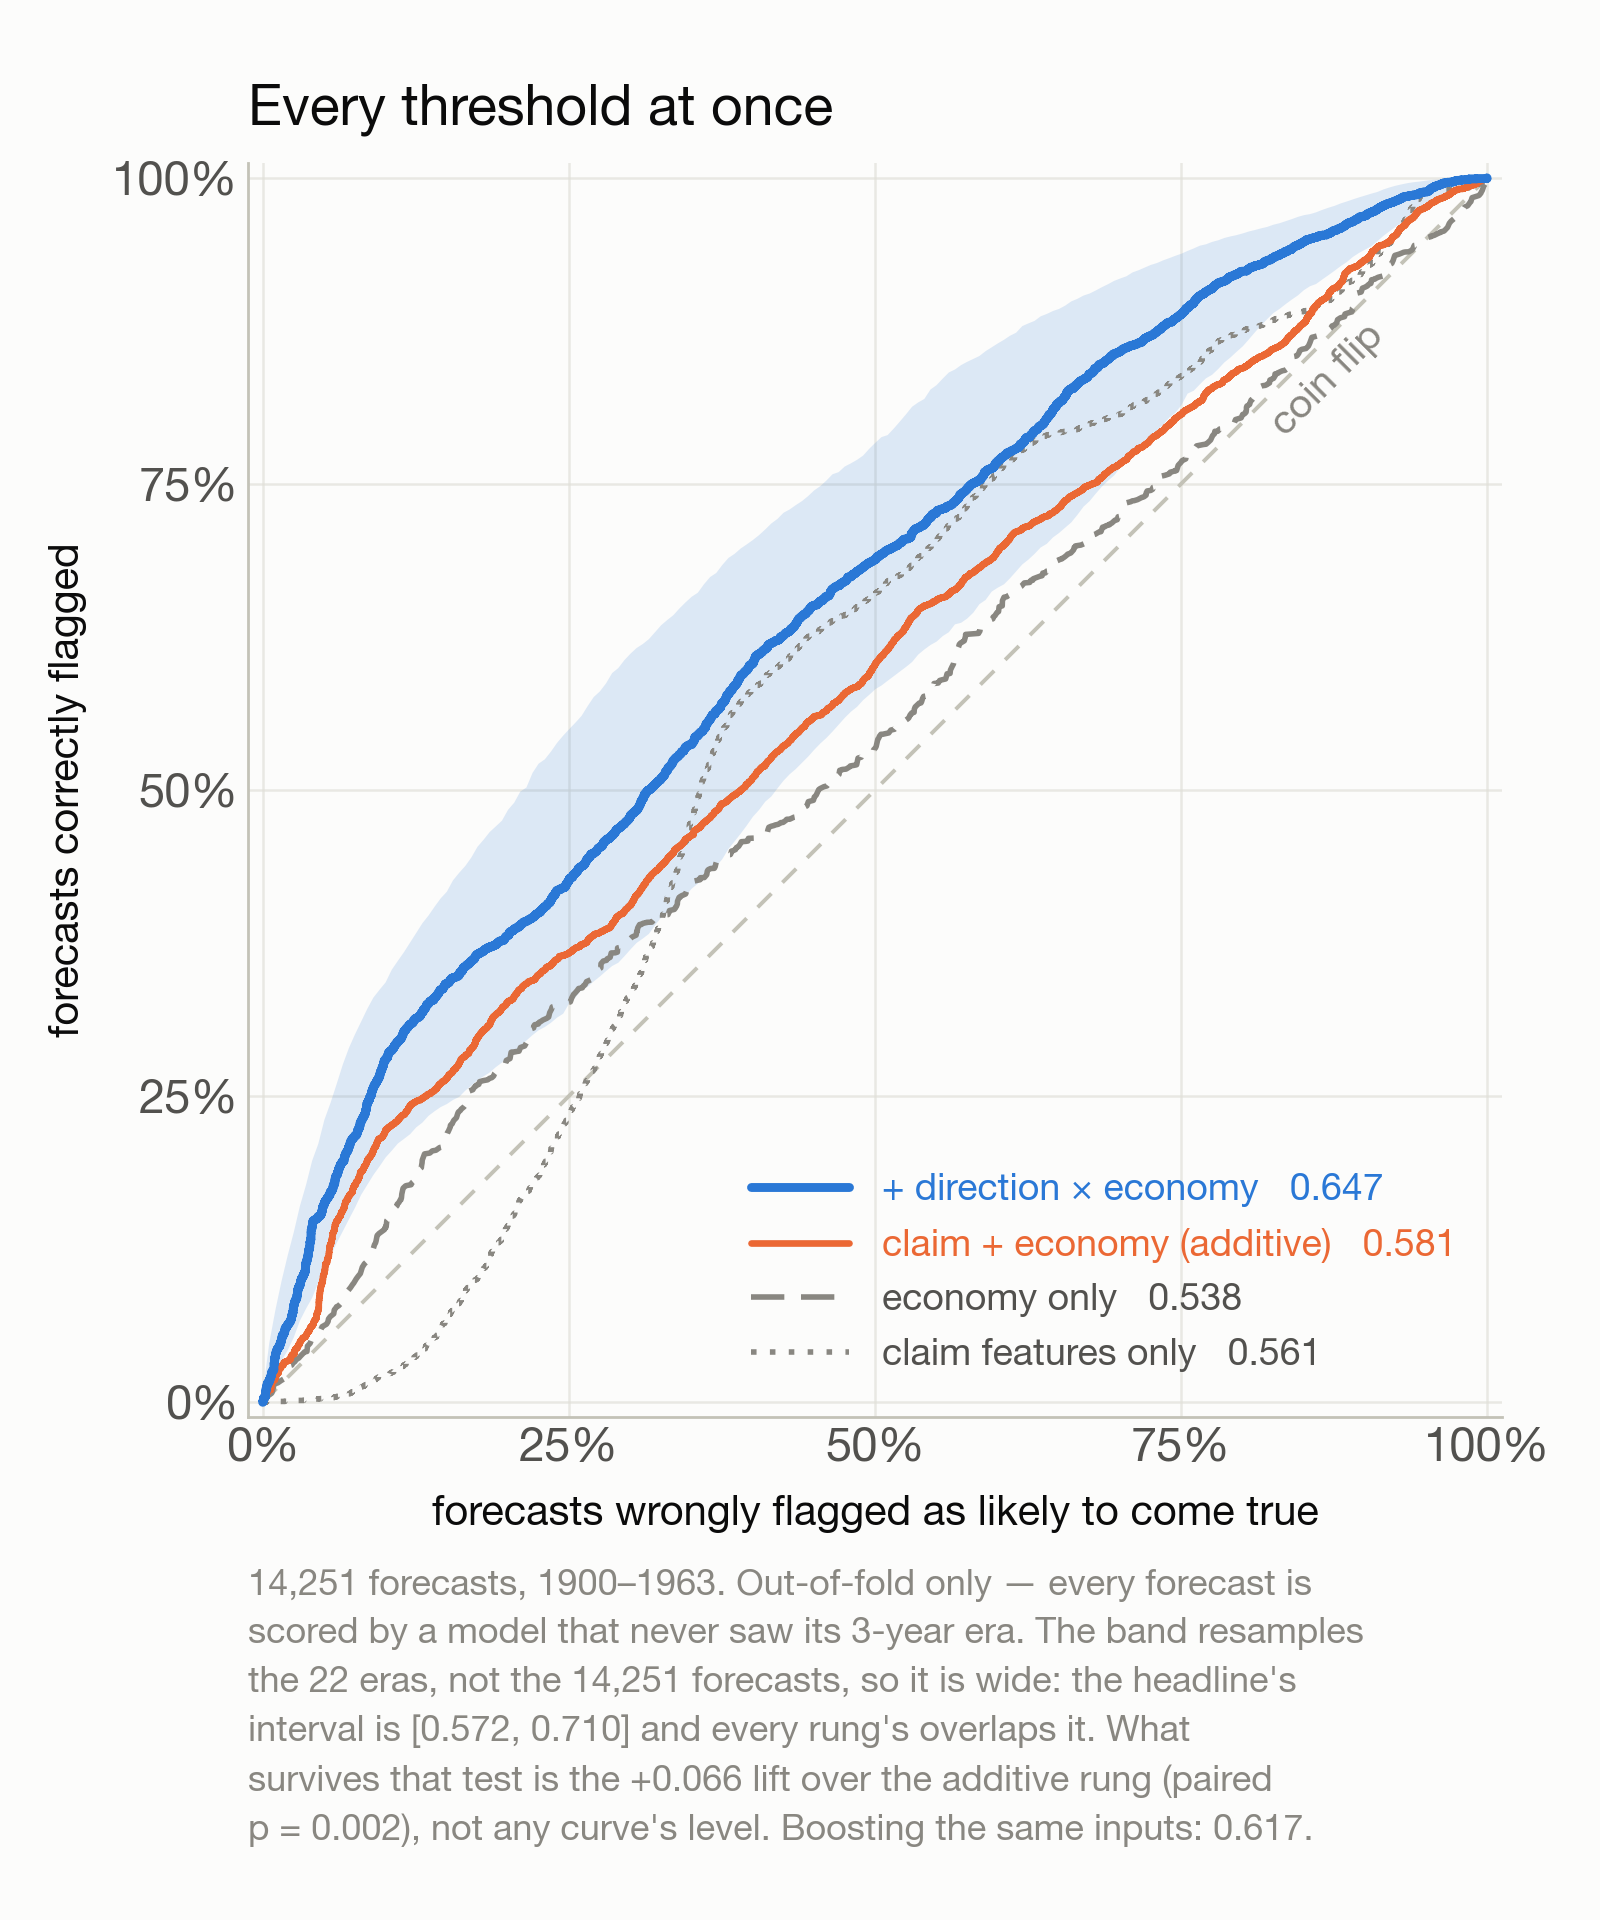
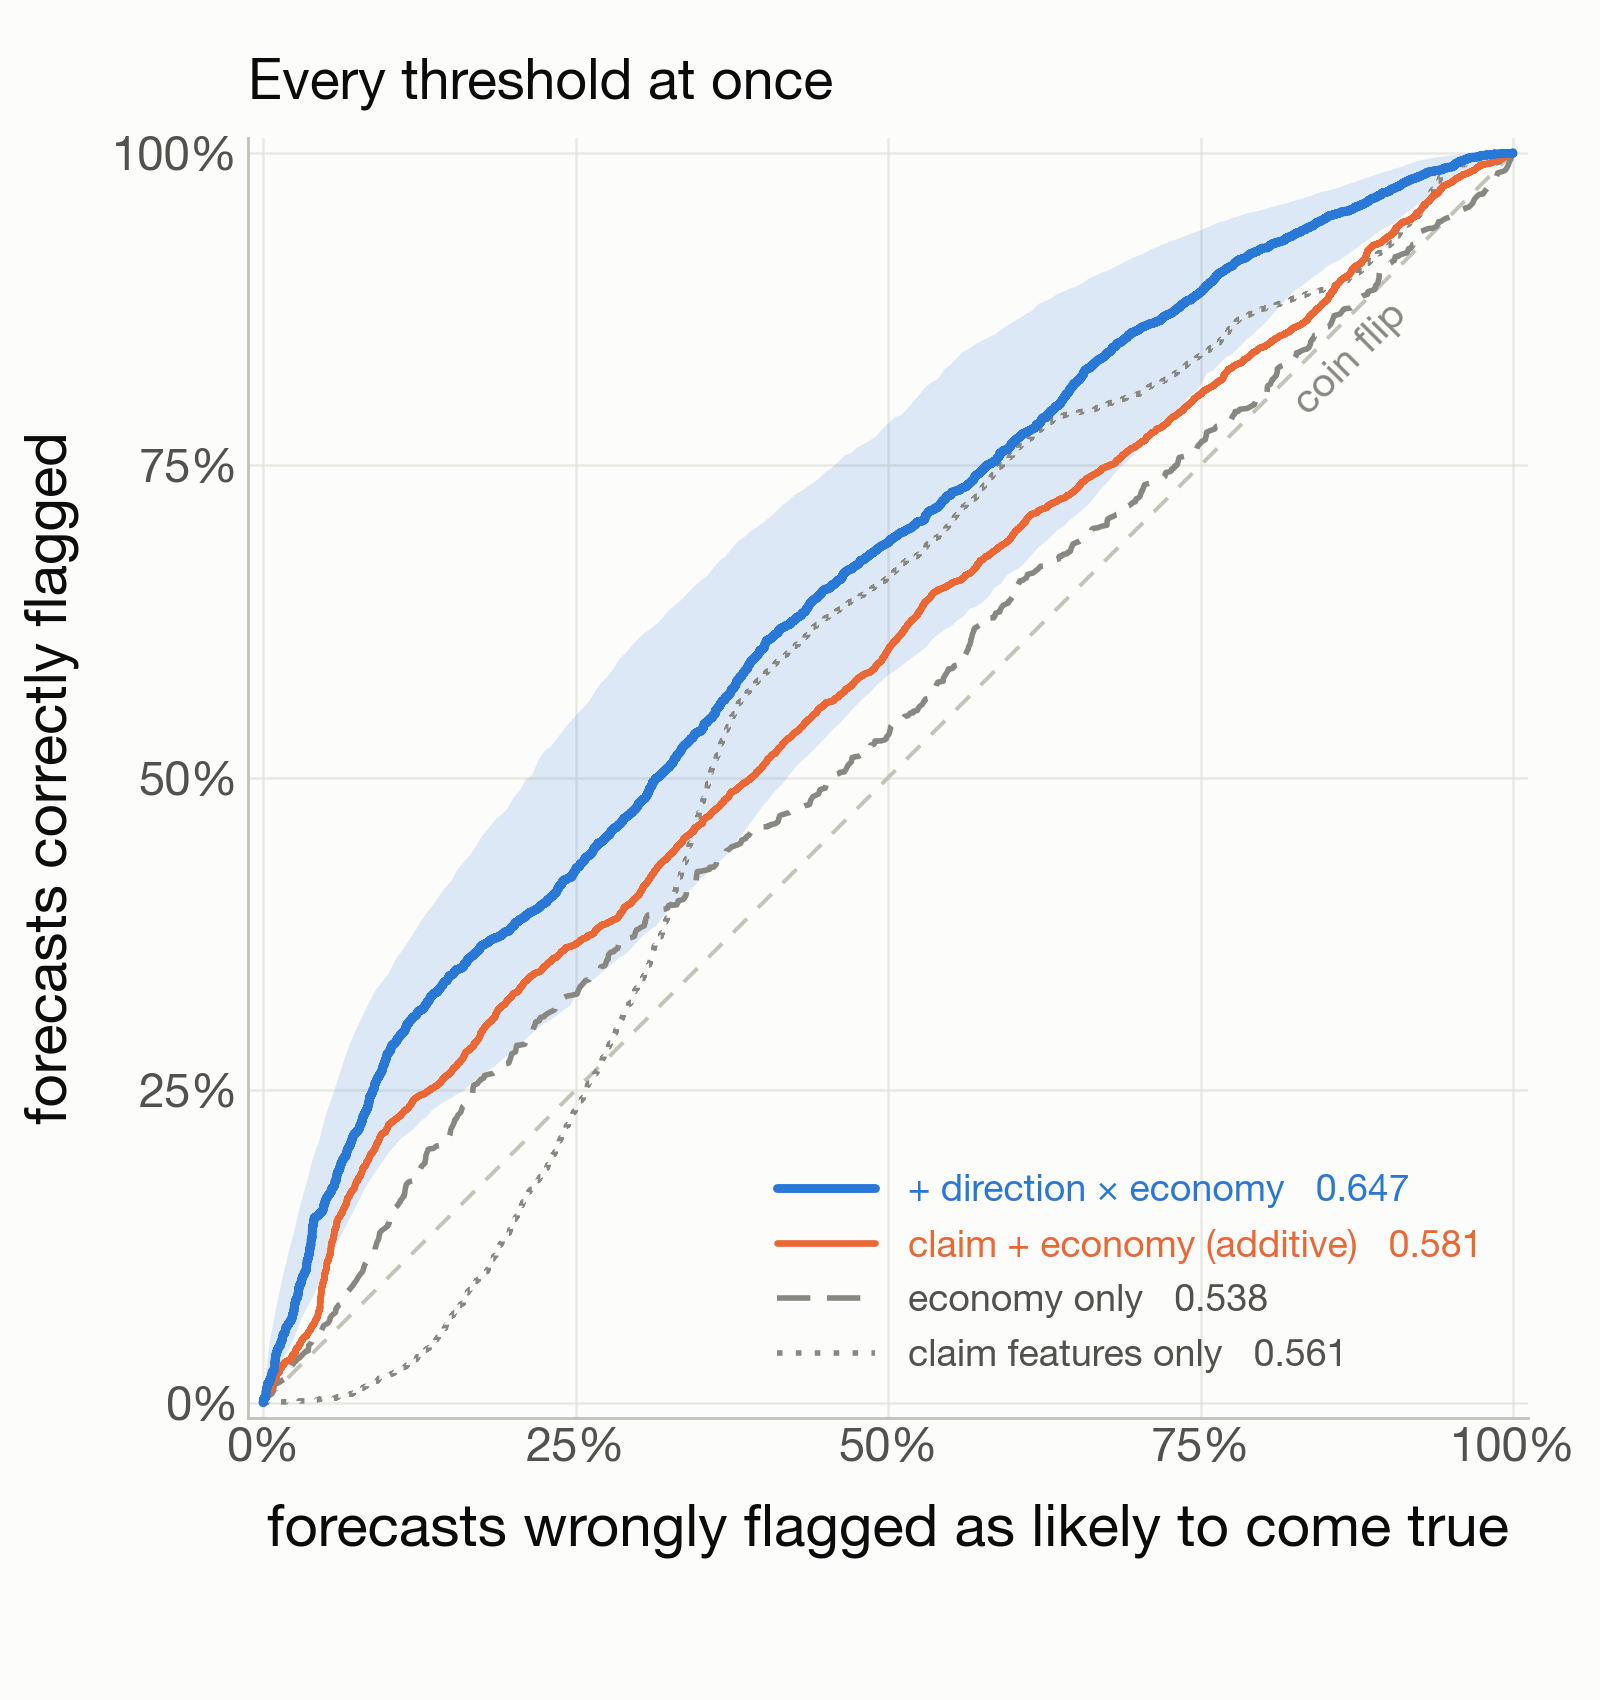
more! more! more!

diff --git a/src/make_roc_figure.py b/src/make_roc_figure.py
@@ -61,7 +61,10 @@ AXIS = "#c3c2b7"
 BLUE = "#2a78d6"      # categorical slot 1 -- the model the poster reports
 ORANGE = "#eb6834"    # categorical slot 2 -- the rung directly below it
 
-W, H = 8.0, 9.6
+# H is the square plot plus its title and axis labels, nothing else. The 9.6in
+# version reserved room for a six-line caption under the axes; with that gone
+# the same height would print as an inch of blank paper below the x label.
+W, H = 8.0, 8.5
 BASE, LABEL, TITLE, NOTE = 17, 18, 25, 14.5
 
 BOOT = 1000           # block-bootstrap resamples for the band and the intervals
@@ -210,7 +213,9 @@ def main():
     y = d["hit"].values.astype(int)
 
     fig, ax = plt.subplots(figsize=(W, H))
-    fig.subplots_adjust(left=0.155, right=0.98, top=0.915, bottom=0.262)
+    # right stops short of the edge: the "100%" tick label is centred on the
+    # last tick and half of it sits outside the axes.
+    fig.subplots_adjust(left=0.155, right=0.955, top=0.925, bottom=0.16)
 
     ax.grid(True, axis="both", lw=0.9, alpha=0.7)
     ax.set_axisbelow(True)
@@ -245,8 +250,8 @@ def main():
     ax.set_ylim(-0.012, 1.012)
     ax.set_aspect("equal")
     ax.set_xlabel("forecasts wrongly flagged as likely to come true",
-                  fontsize=LABEL - 3, labelpad=9)
-    ax.set_ylabel("forecasts correctly flagged", fontsize=LABEL - 3, labelpad=9)
+                  fontsize=LABEL + 3, labelpad=12)
+    ax.set_ylabel("forecasts correctly flagged", fontsize=LABEL + 3, labelpad=12)
     for setter in (ax.set_xticks, ax.set_yticks):
         setter([0, 0.25, 0.5, 0.75, 1.0])
     ax.set_xticklabels(["0%", "25%", "50%", "75%", "100%"])
@@ -256,20 +261,21 @@ def main():
     ax.set_anchor("W")   # square plot hugs the left; slack goes to the margin
     clean(ax)
 
-    # The interval belongs in words now that the error-bar panel is gone: the
-    # curves alone make 0.647 and 0.581 look decisively apart, and against 22
-    # blocks they are not. A figure that shows only the curves has to say so.
+    # The provenance and the interval used to sit under the axes and are now
+    # printed to stdout instead. They still have to travel WITH the figure --
+    # the band is meaningless unless a reader knows it resamples 22 eras rather
+    # than 14,251 forecasts, and the curves alone make 0.647 and 0.581 look
+    # decisively apart when the interval says they are not. Whoever places this
+    # figure has to carry these numbers in the surrounding caption.
     d_auc = s["auc"]["full"][0] - s["auc"]["additive"][0]
     _, f_lo, f_hi = s["auc"]["full"]
-    fig.text(0.155, 0.183,
-             "{n:,} forecasts, 1900–1963. Out-of-fold only — every forecast is\n"
-             "scored by a model that never saw its 3-year era. The band resamples\n"
-             "the {b} eras, not the {n:,} forecasts, so it is wide: the headline's\n"
-             "interval is [{lo:.3f}, {hi:.3f}] and every rung's overlaps it. What\n"
-             "survives that test is the {dl:+.3f} lift over the additive rung (paired\n"
-             "p = 0.002), not any curve's level. Boosting the same inputs: 0.617."
-             .format(n=s["n"], b=s["n_blocks"], dl=d_auc, lo=f_lo, hi=f_hi),
-             fontsize=NOTE - 1.5, color=MUTED, va="top", linespacing=1.6)
+    print(f"  caption facts (no longer drawn on the figure):")
+    print(f"    {s['n']:,} forecasts, 1900-1963, out-of-fold over {s['n_blocks']} eras")
+    print(f"    headline AUC {s['auc']['full'][0]:.3f}  95% CI [{f_lo:.3f}, {f_hi:.3f}]"
+          f"  -- every rung's interval overlaps it")
+    print(f"    lift over additive {d_auc:+.3f} (paired p = 0.002) -- this is what "
+          f"survives, not any curve's level")
+    print(f"    gradient boosting on the same inputs: 0.617")
 
     p = f"{OUT}/v2_fig9_roc.png"
     fig.savefig(p, facecolor=SURFACE)
